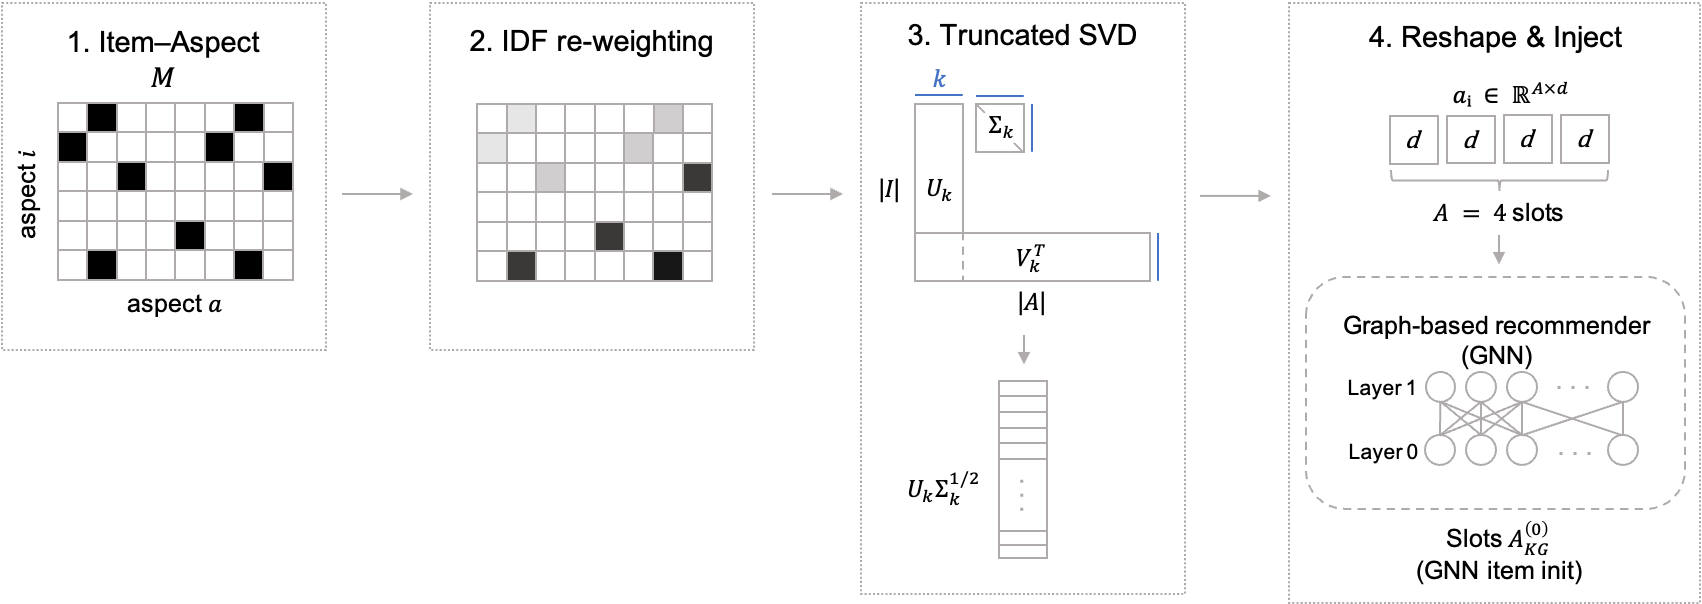
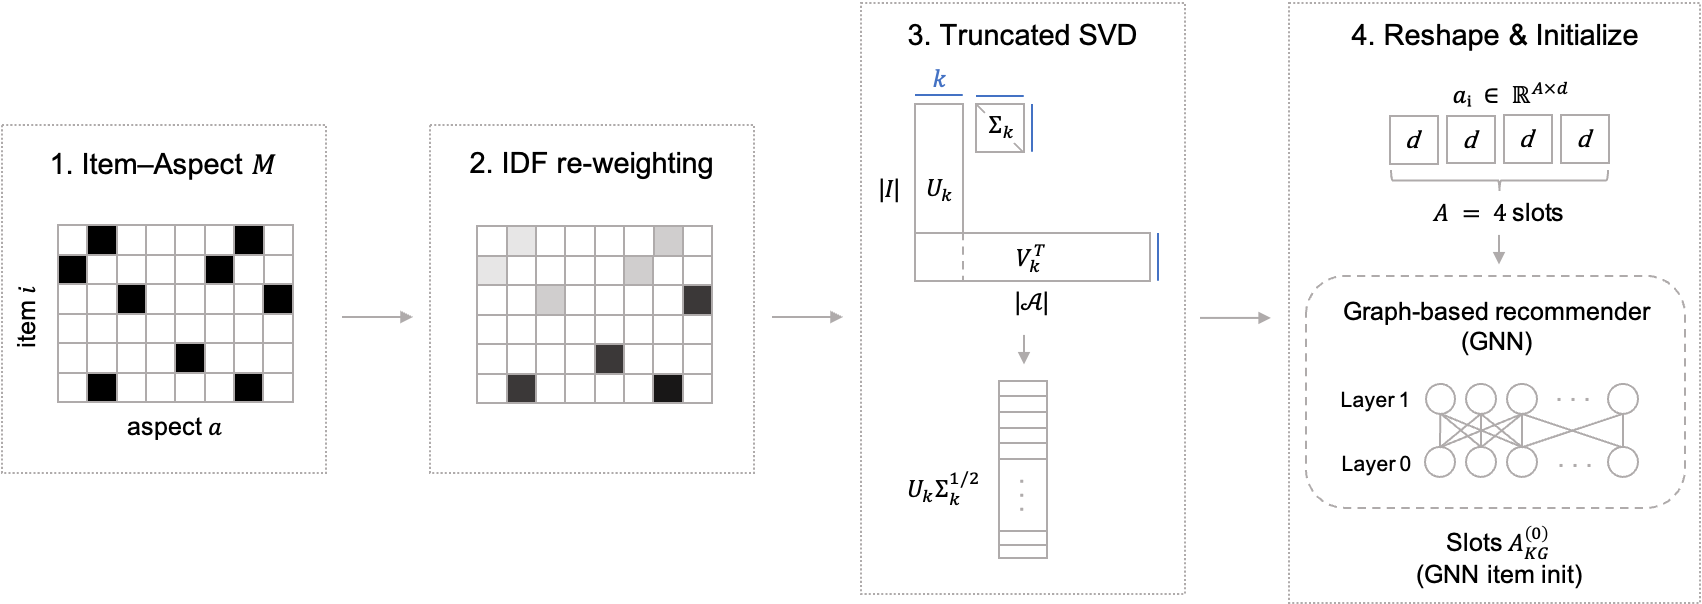
paper: simplify KG-SVD figure caption + remove duplicate placeholder
- Caption shortened to a single centered title "KG-SVD initialization
  pipeline." (the per-stage description already lives in §3 prose).
- Removed the placeholder figure at the end of §What-the-Init-Buys
  (label fig:kgsvd) — it duplicated fig:kgsvd-init and had no \ref
  pointing at it. Also picks up the redrawn img/kg_svd.png with the
  "item i" axis label fix and |A|->|cal A| fix.

diff --git a/Document/thesis/Sections/3.Methodology.tex b/Document/thesis/Sections/3.Methodology.tex
@@ -154,7 +154,7 @@ The global view introduces a separate user-side embedding $u_{\mathrm{glo}}$ (a 
 \begin{figure}[t]
 \centering
 \includegraphics[width=\textwidth]{img/kg_svd.png}
-\caption[KG-SVD item-embedding initialization pipeline.]{Four-stage KG-SVD item-embedding initialization. \textbf{(1)} Triples in the KG $\mathcal{G}$ are collected into a sparse binary item--aspect matrix $\mathbf{M}\in\{0,1\}^{|\mathcal{I}|\times|\mathcal{A}|}$ (Eq.~\eqref{eq:cooc}). \textbf{(2)} Columns of $\mathbf{M}$ are re-weighted by inverse document frequency $w(a) = \log(|\mathcal{I}|/\mathrm{df}(a))$ to suppress popular tags (Eq.~\eqref{eq:idf-rescale}). \textbf{(3)} The re-weighted $\tilde{\mathbf{M}}$ is factorized at rank $k = A d$ (Eq.~\eqref{eq:svd}); only the left factor $\mathbf{U}_k\boldsymbol{\Sigma}_k^{1/2}\in\mathbb{R}^{|\mathcal{I}|\times k}$ is kept. \textbf{(4)} Each item's $k$-dim row is split into $A$ contiguous slots of width $d$, producing $\mathbf{A}_{\mathrm{KG}}^{(0)} \in \mathbb{R}^{|\mathcal{I}|\times A \times d}$ (Eq.~\eqref{eq:reshape}), which seeds the item side of the GNN backbone. The KG is used only as initialization and does not appear in any forward pass thereafter.}
+\caption{KG-SVD initialization pipeline.}
 \label{fig:kgsvd-init}
 \end{figure}
 
@@ -244,14 +244,6 @@ If $|\mathcal{A}| < A d$, the SVD rank is capped at $|\mathcal{A}| - 1$ and the 
 \label{sec:kgsvd-effect}
 
 The contribution of KG-SVD initialization is measured by ablation in Section~\ref{sec:ablation-svd}: replacing it with a Xavier-normal random initialization of the same tensor shape costs $5.3\%$ NDCG@20. The interpretation is that the SVD initialization preserves the angular geometry of the aspect-induced semantic subspace at the start of training; subsequent gradient descent fine-tunes this geometry, but cannot easily recover it from random under our sparse-KG conditions, because the gradient signal that would do so flows through the contrastive losses (with $\lambda_{\mathrm{CL}} = 0.005$) and is weak.
-
-\begin{figure}[ht]
-  \centering
-  % \includegraphics[width=0.9\textwidth]{img/kgsvd_init.png}  % TODO: insert figure (b)
-  \fbox{\parbox[c][4cm][c]{0.9\textwidth}{\centering\itshape Placeholder: KG-SVD initialization flow\\(item--aspect matrix $\to$ IDF weighting $\to$ truncated SVD $\to$ reshape to $[|\mathcal{I}|, A, d]$).}}
-  \caption{KG-SVD initialization pipeline.}
-  \label{fig:kgsvd}
-\end{figure}
 
 \section{Global View: Softmax Rationale Masking}
 \label{sec:softmax}